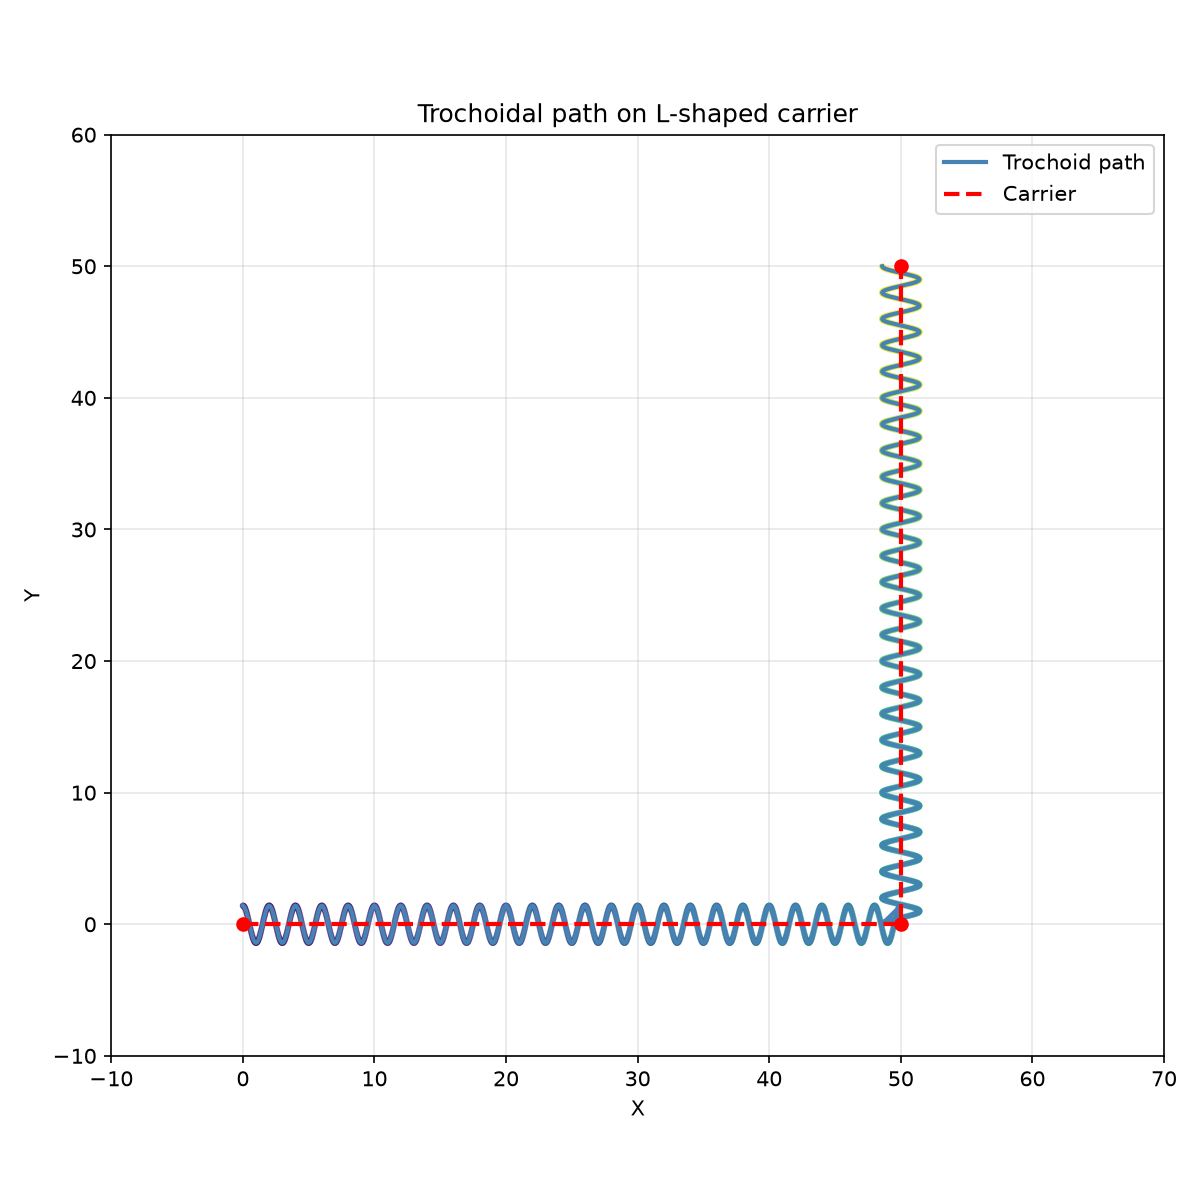
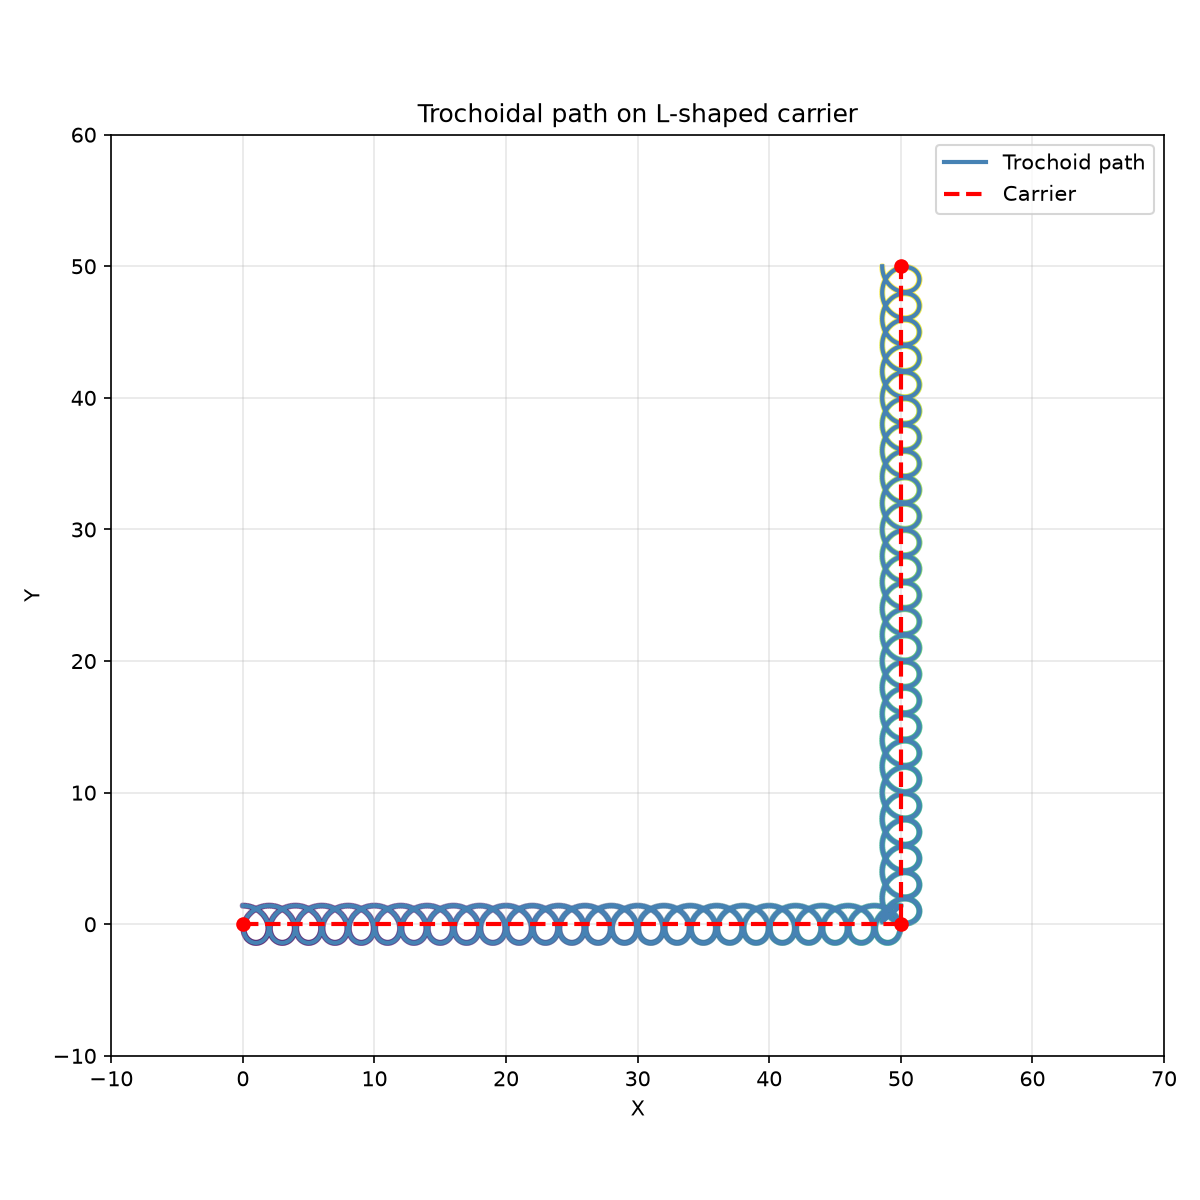
fix(trochoid): convert sine wave to true trochoidal loop
Add missing longitudinal (tangent) oscillation so the toolpath
loops back on itself each cycle instead of just wiggling sideways.
This limits tool engagement angle and allows chip evacuation,
matching industrial HSM trochoidal clearing behavior.

- trochoid.rs: add loop_radius * sin(theta) * tangent component
- tests: widen endpoint tolerances for true trochoid behavior

Changed region(s): [[0.185, 0.2158, 0.7708, 0.8017]]

diff --git a/tests/geo/algo/test_geo_algo_trochoid.py b/tests/geo/algo/test_geo_algo_trochoid.py
@@ -16,15 +16,13 @@ def test_trochoid_straight_segment():
         z=0,
     )
     assert len(pts) >= 10
-    # All points at z=0
     for p in pts:
         assert approx_eq(p[2], 0, 1e-12)
-    # Should have lateral oscillation
     max_y = max(abs(p[1]) for p in pts)
     assert max_y > 0.5, f"expected lateral oscillation, max_y={max_y}"
-    # Ends should be near the carrier endpoints
-    assert abs(pts[0][0]) < 1.0
-    assert abs(pts[-1][0] - 100) < 1.0
+    # True trochoid may end offset from carrier endpoint (up to ~2*loop_radius)
+    assert abs(pts[0][0]) < 5.0
+    assert abs(pts[-1][0] - 100) < 5.0
 
 
 def test_trochoid_empty_carrier():
@@ -95,9 +93,8 @@ def test_trochoid_min_loop_radius():
 def test_trochoid_l_shaped():
     """L-shaped carrier with corner.
 
-    The trochoid oscillates laterally, so the path endpoint differs from
-    the carrier endpoint by up to ~loop_radius. We check that the point
-    lands within a reasonable band around the end.
+    With true trochoidal oscillation in both tangent and normal directions,
+    the endpoint can differ from the carrier endpoint by up to ~2*loop_radius.
     """
     pts = trochoid_along(
         [(0, 0), (50, 0), (50, 50)],
@@ -106,8 +103,7 @@ def test_trochoid_l_shaped():
         step_over_ratio=0.2,
     )
     assert len(pts) >= 10
-    # End should be near (50, 50) — within the max lateral amplitude
-    max_dev = 10.0  # generous bound given lateral oscillation
+    max_dev = 10.0
     assert abs(pts[-1][0] - 50) < max_dev
     assert abs(pts[-1][1] - 50) < max_dev
 
@@ -150,6 +146,6 @@ def test_trochoid_diagonal_segment():
         step_over_ratio=0.2,
     )
     assert len(pts) >= 10
-    # End near (100, 100)
-    assert abs(pts[-1][0] - 100) < 1.0
-    assert abs(pts[-1][1] - 100) < 1.0
+    # True trochoid may end offset from carrier endpoint (up to ~2*loop_radius)
+    assert abs(pts[-1][0] - 100) < 5.0
+    assert abs(pts[-1][1] - 100) < 5.0

diff --git a/src/geo/algo/trochoid.rs b/src/geo/algo/trochoid.rs
@@ -10,12 +10,12 @@ pub struct TrochoidOptions {
     pub z: f64,
 }
 
-/// Produce a trochoidal 3D polyline that follows `carrier` (a 2D polyline).
+/// Produce a true trochoidal 3D polyline that follows `carrier` (a 2D polyline).
 ///
-/// The trochoid is generated as a sinusoidal offset perpendicular to the
-/// carrier path. The lateral oscillation frequency is determined by the
-/// step-over distance (one full oscillation per step_over), and the
-/// amplitude (loop radius) is derived from the engagement angle.
+/// The trochoid is generated by oscillating in both the normal and tangent
+/// directions along the carrier path, creating looping paths that reverse
+/// direction in each cycle. This limits the tool engagement angle and allows
+/// chip evacuation, unlike a simple sine-wave offset.
 ///
 /// Returns the cutting path as a sequence of 3D points at the given Z.
 pub fn trochoid_along(
@@ -108,8 +108,9 @@ pub fn trochoid_along(
         };
         let normal = Point::new(-tangent.y, tangent.x);
 
-        let x = pos.x + lateral * normal.x;
-        let y = pos.y + lateral * normal.y;
+        let longitudinal = loop_radius * theta.sin();
+        let x = pos.x + lateral * normal.x + longitudinal * tangent.x;
+        let y = pos.y + lateral * normal.y + longitudinal * tangent.y;
         result.push(Point3D::new(x, y, opts.z));
     }
 
